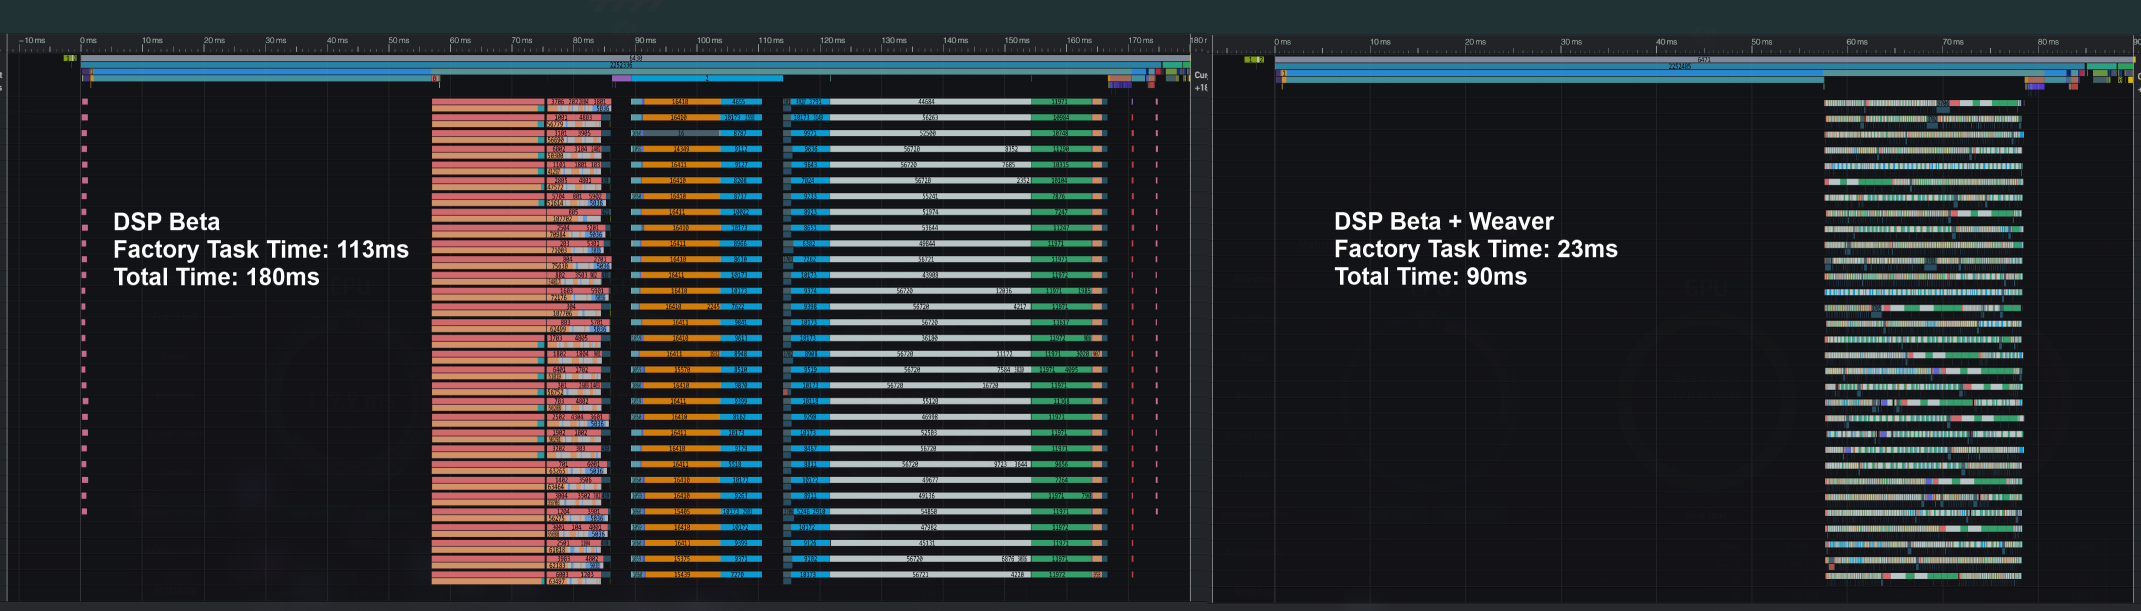
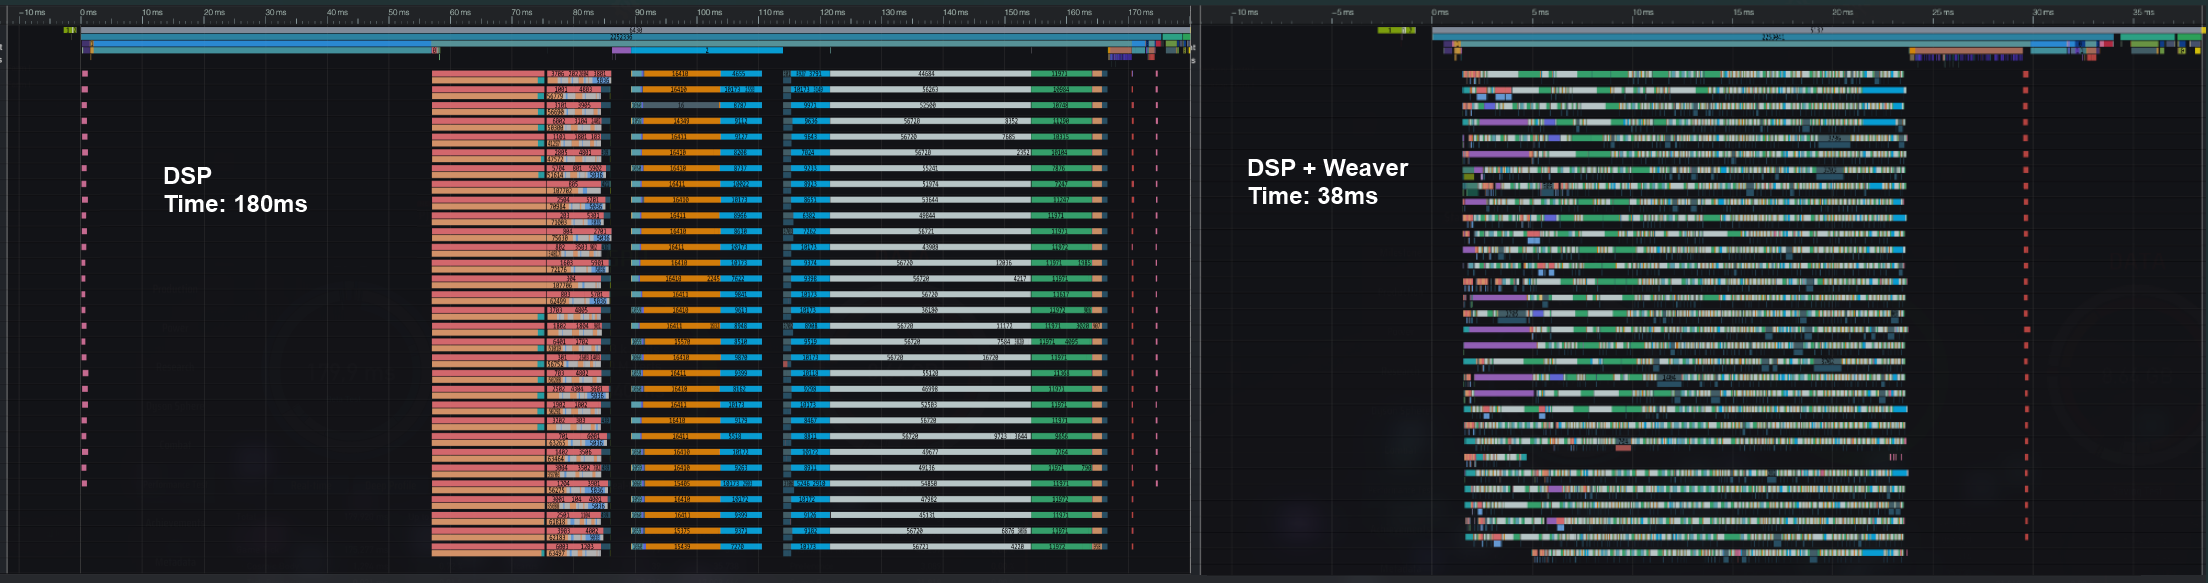
Update multithreading image

diff --git a/Publish_Weaver/README.md b/Publish_Weaver/README.md
@@ -76,6 +76,8 @@ To efficiently execute these steps for all planets, Weaver implements a work ste
 
 Workers will prioritize executing work for a specific planet, unless the planet has no work immediately available. In that case the worker will attempt to find available work on other planets. Only if it can't find any immediately available work in any planet, will the worker have to wait for other workers to complete their work. A worker will attempt to reserve work in the next step before it waits. If it can't reserve work then it will find another planet to try and reserve work in. This ensures 10 threads aren't waiting in a planet where the next step only consists of 2 work chunks.
 
+![MultiThreadingComparison](./Multithreading_comparison.png)
+
 ## Power system
 Weaver calculates the energy consumption of an entity right after updating the entity. Although the same work is being done, the work is cheaper due to the entities power data already being in cache. This effectively eliminates the performance impact the power system previously had in the game. 
 Additionally, wind power generators are now calculated in constant time. This is possible because all wind generators generate the same amount of power. Counting the number of wind generators and multiplying that by a planets wind strength is all that is needed to calculate their power generation. 
